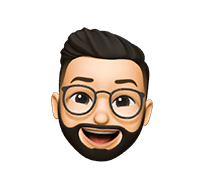
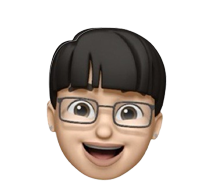
update

diff --git a/assets/css/style.css b/assets/css/style.css
@@ -1867,6 +1867,21 @@ textarea.form-input::-webkit-resizer { display: none; }
 
   .navbar-link { --fs-8: 15px; }
 
+  .experience-item.is-collapsed .experience-detail {
+    overflow: visible;
+  }
+
+  .experience-item.is-collapsed .experience-detail .timeline-text,
+  .experience-item.is-collapsed .experience-detail .timeline-text:first-child {
+    display: block;
+    overflow: visible;
+  }
+
+  .experience-item.is-collapsed .experience-detail::after,
+  .experience-toggle {
+    display: none;
+  }
+
 
 
   /**
@@ -2085,7 +2100,7 @@ textarea.form-input::-webkit-resizer { display: none; }
 
   .sidebar, article { width: auto; }
 
-  article { min-height: 100%; }
+  article { min-height: auto; }
 
 
 
@@ -2098,7 +2113,7 @@ textarea.form-input::-webkit-resizer { display: none; }
     margin-inline: auto;
     display: flex;
     justify-content: center;
-    align-items: stretch;
+    align-items: flex-start;
     gap: 25px;
   }
 